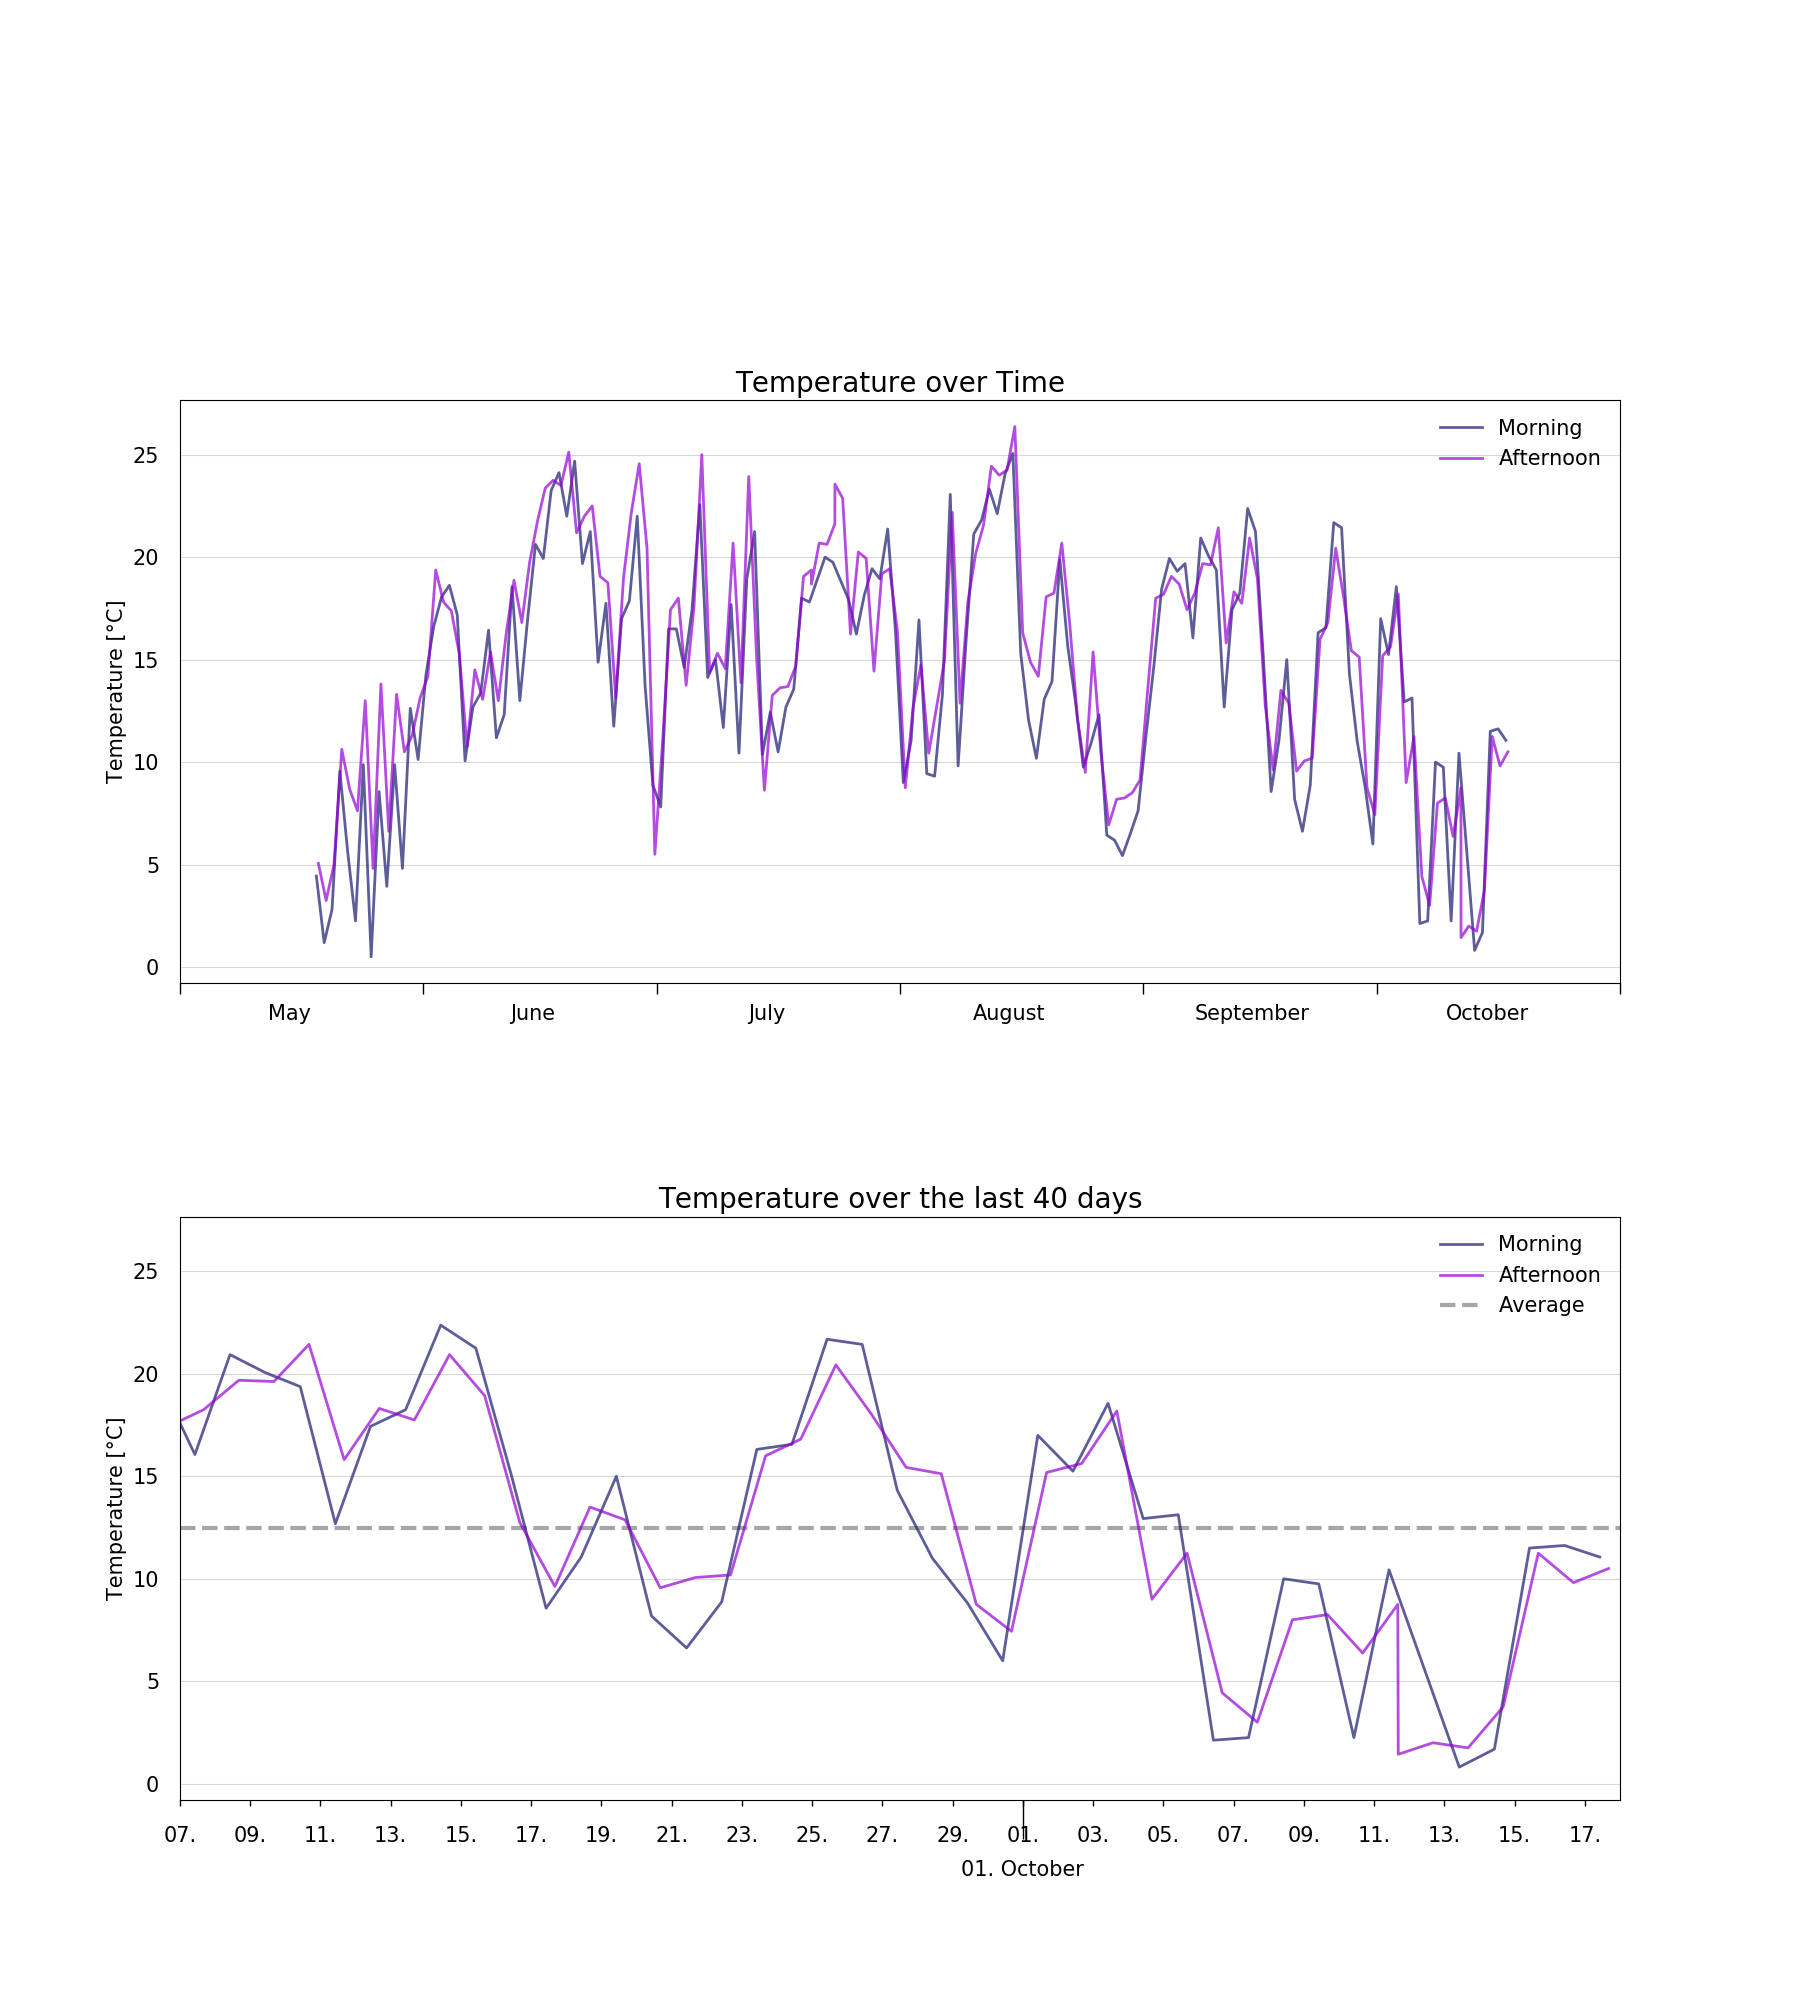
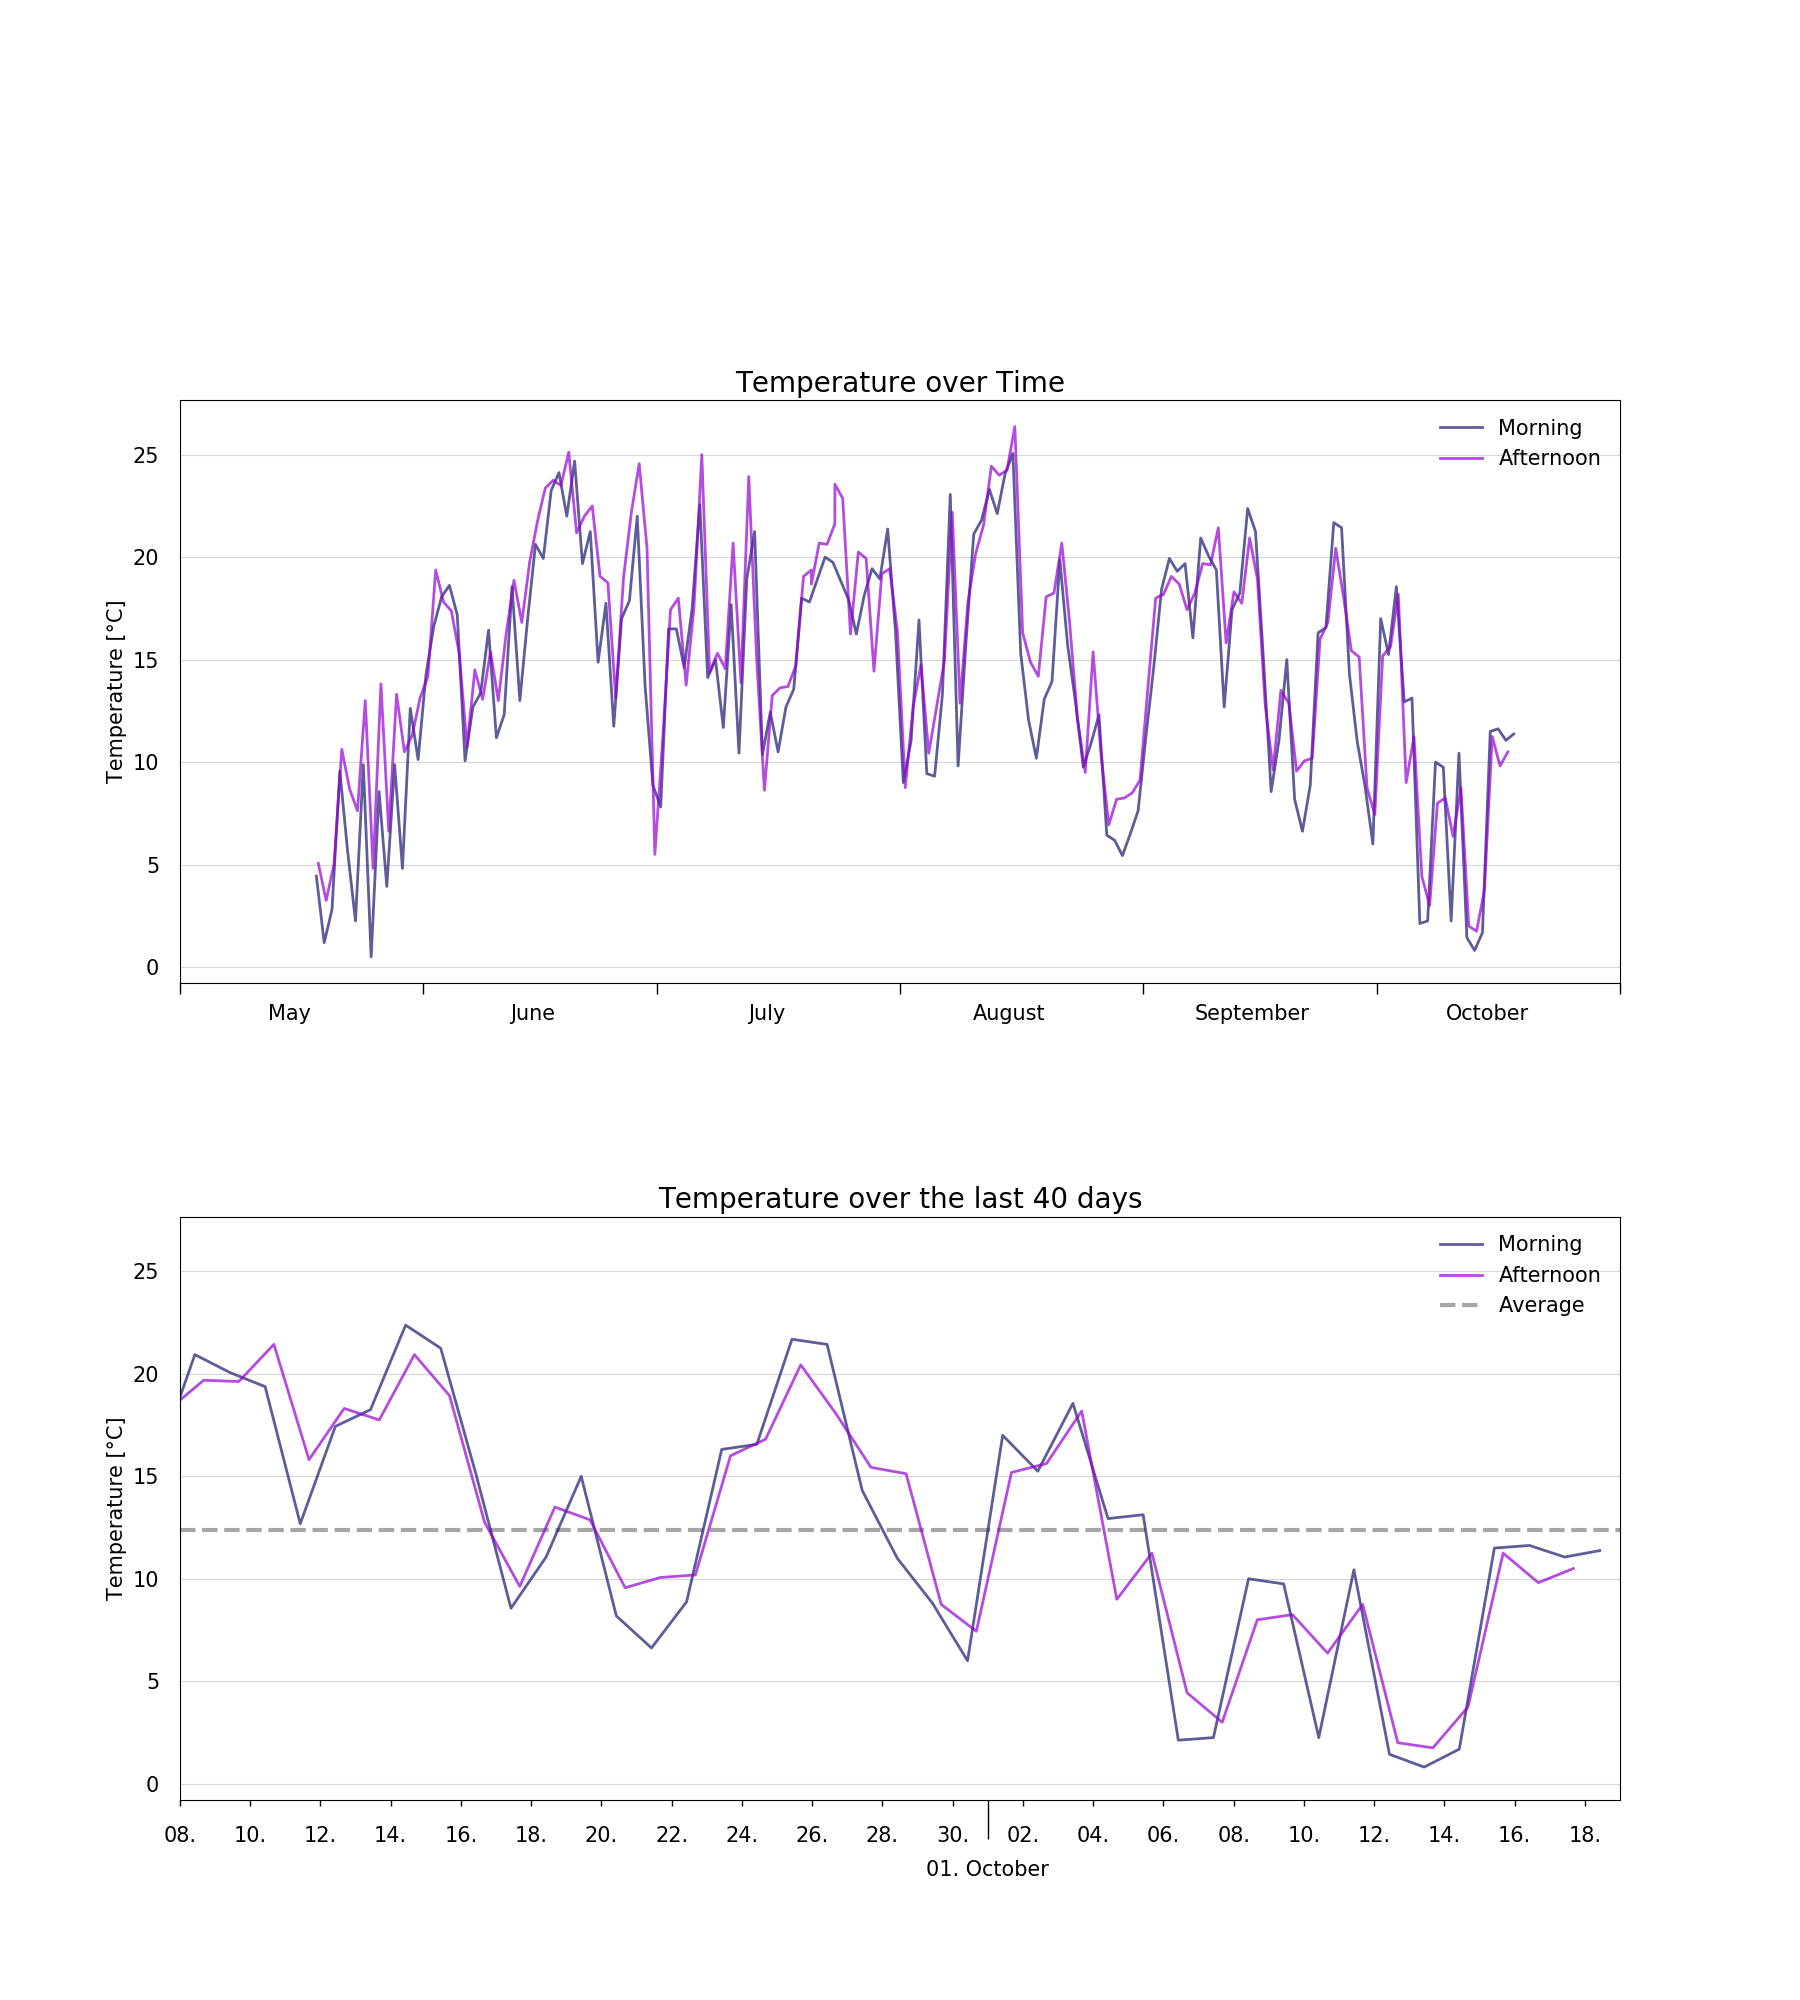
I'm a bot beep boop

diff --git a/resources/huette.md b/resources/huette.md
@@ -6,13 +6,13 @@ image: '/assets/img/'
 description: 'Live image from the Austrian alps'
 twitter_text: ' '
 ---
-## Latest image from 17 October 2021 at 16:10
+## Latest image from 18 October 2021 at 10:10
 <div class="huette">
   <div class="huette-image">
     <img src="{{ "/assets/img/huette.jpg" | prepend: site.baseurl }}">
   </div>
   <div class="huette-text">
-        <h2>Current Temperature: 10.5°C</h2>
+        <h2>Current Temperature: 11.375°C</h2>
         <p>A solar powered raspberry pi left alone in the wild is sending daily images and temperature data to this website. It should give you an impression about the current weather in the "Brixental".</p>
 
   </div>

diff --git a/rpi-script/huette.md b/rpi-script/huette.md
@@ -6,13 +6,13 @@ image: '/assets/img/'
 description: 'Live image from the Austrian alps'
 twitter_text: ' '
 ---
-## Latest image from 17 October 2021 at 16:10
+## Latest image from 18 October 2021 at 10:10
 <div class="huette">
   <div class="huette-image">
     <img src="{{ "/assets/img/huette.jpg" | prepend: site.baseurl }}">
   </div>
   <div class="huette-text">
-        <h2>Current Temperature: 10.5°C</h2>
+        <h2>Current Temperature: 11.375°C</h2>
         <p>A solar powered raspberry pi left alone in the wild is sending daily images and temperature data to this website. It should give you an impression about the current weather in the "Brixental".</p>
 
   </div>
